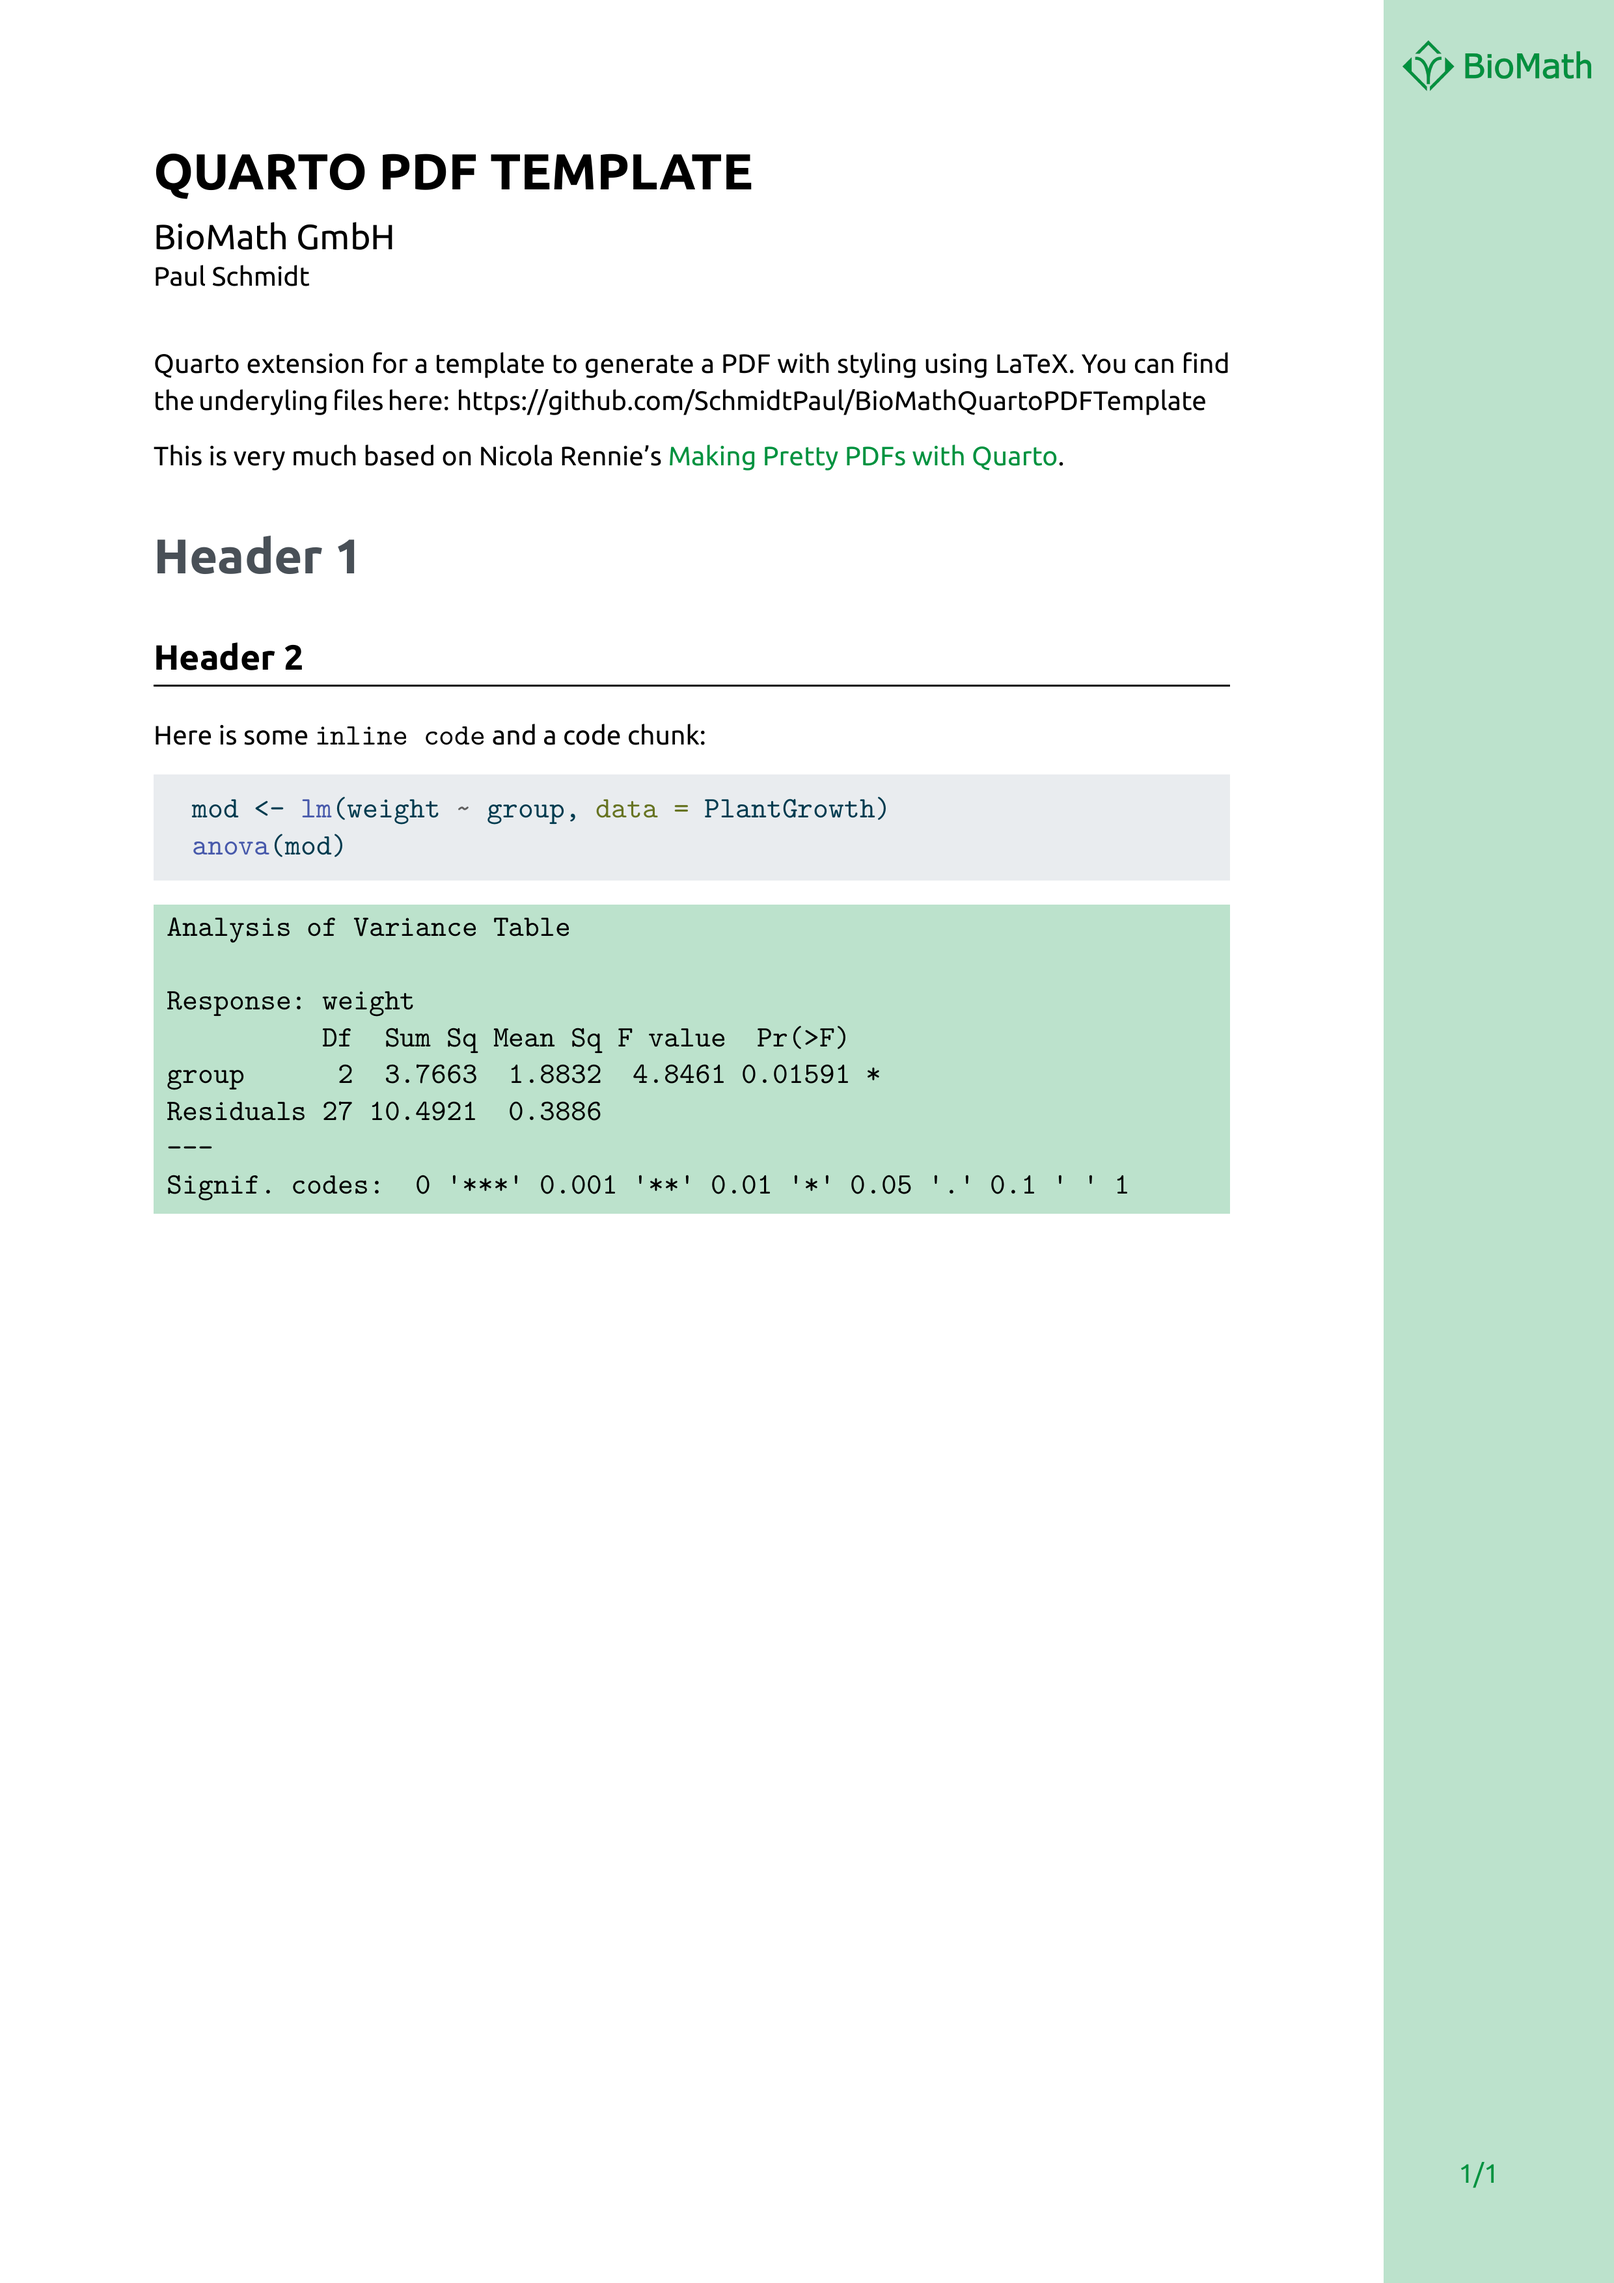
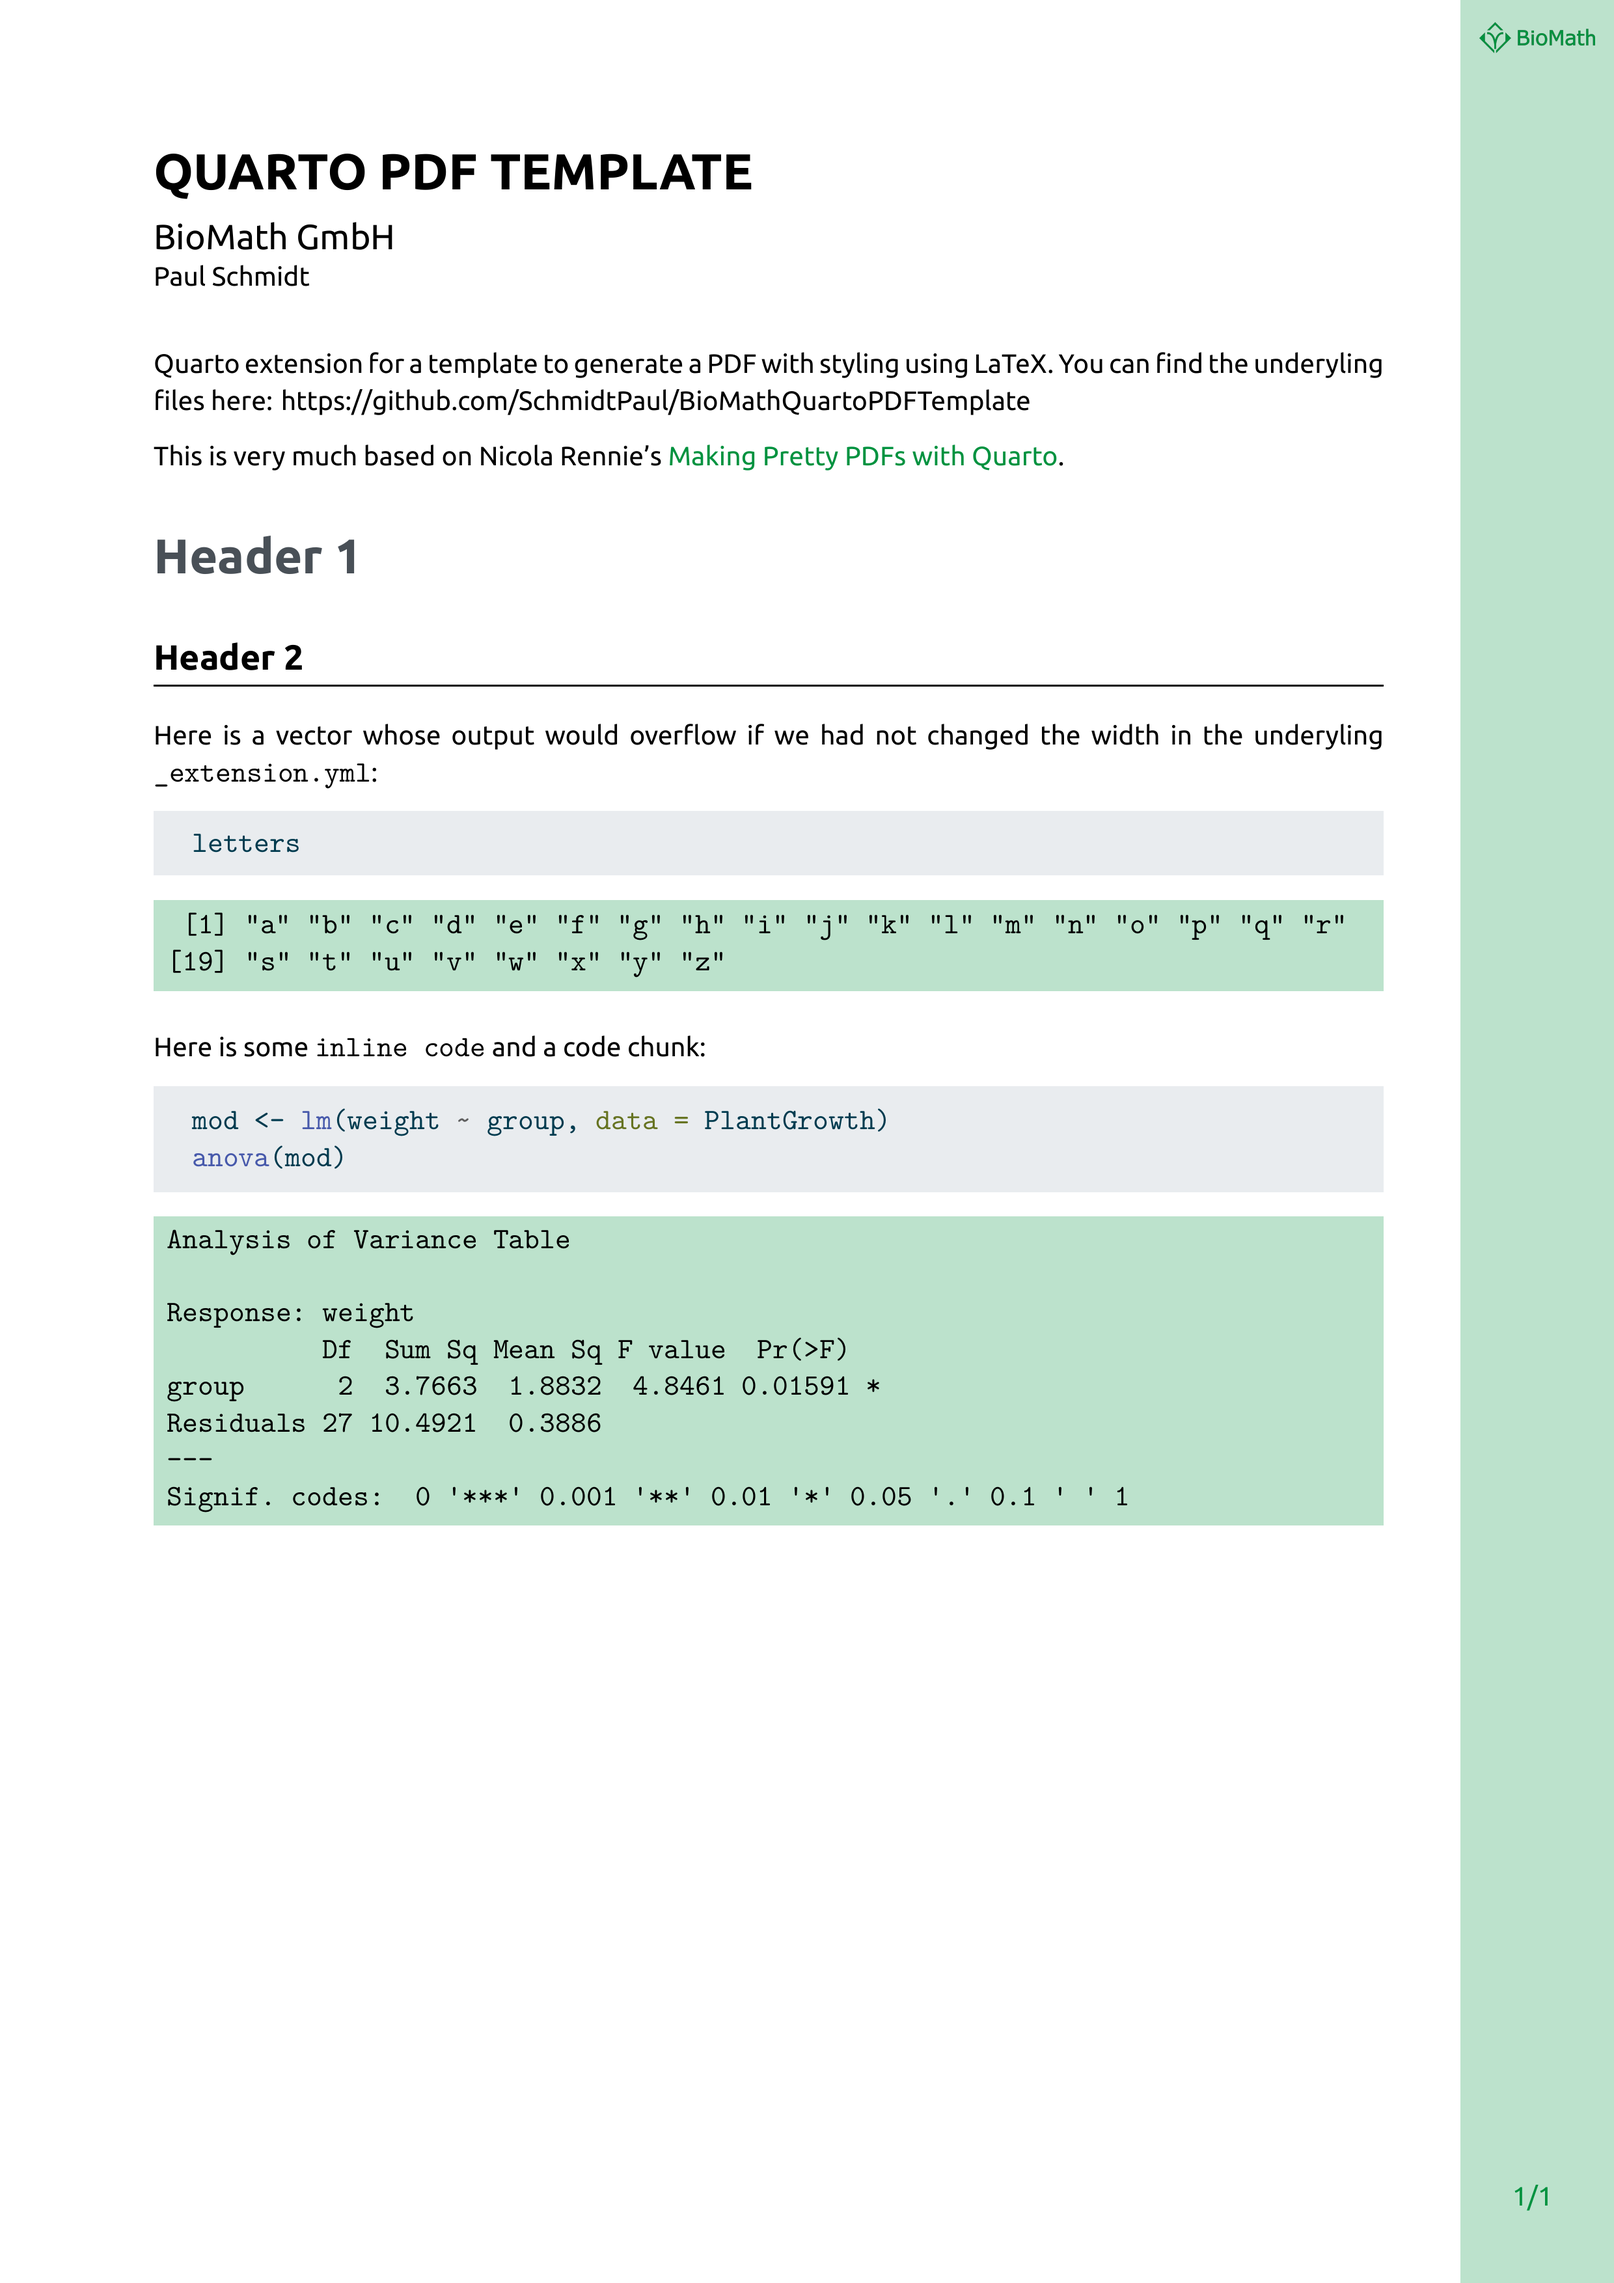
no more overflow

Changed region(s): [[0.0931, 0.0, 0.9935, 1.0], [0.1242, 0.1554, 0.7762, 0.1864], [0.6831, 0.3107, 0.7141, 0.3418]]

diff --git a/_extensions/SchmidtPaul/BioMathQuartoPDFTemplate/BioMathQuartoPDFTemplate.tex b/_extensions/SchmidtPaul/BioMathQuartoPDFTemplate/BioMathQuartoPDFTemplate.tex
@@ -11,7 +11,7 @@
 \usepackage{fvextra}
 
 %% Set page size with a wider right margin
-\geometry{a4paper, total={170mm,257mm}, left=20mm, top=20mm, bottom=20mm, right=50mm}
+\geometry{a4paper, total={170mm,257mm}, left=20mm, top=20mm, bottom=20mm, right=30mm}
 
 %% Let's define some colours
 \definecolor{lightBMgreen}{HTML}{bce2cc}
@@ -22,14 +22,14 @@
 %% Let's add the border on the right hand side 
 \AddToShipoutPicture{% 
     \AtPageLowerLeft{% 
-        \put(\LenToUnit{\dimexpr\paperwidth-3cm},0){% 
-            \color{lightBMgreen}\rule{3cm}{\LenToUnit\paperheight}%
+        \put(\LenToUnit{\dimexpr\paperwidth-2cm},0){% 
+            \color{lightBMgreen}\rule{2cm}{\LenToUnit\paperheight}%
           }%
      }%
      % logo
     \AtPageLowerLeft{% start the bar at the bottom right of the page
-        \put(\LenToUnit{\dimexpr\paperwidth-2.75cm},28.5cm){% move it to the top right
-            \color{lightBMgreen}\includegraphics[width=2.45cm]{_extensions/SchmidtPaul/BioMathQuartoPDFTemplate/BioMath_logo_name_1500x411.png}
+        \put(\LenToUnit{\dimexpr\paperwidth-1.75cm},29.0cm){% move it to the top right
+            \color{lightBMgreen}\includegraphics[width=1.5cm]{_extensions/SchmidtPaul/BioMathQuartoPDFTemplate/BioMath_logo_name_1500x411.png}
           }%
      }%
 }
@@ -38,10 +38,10 @@
 \fancypagestyle{mystyle}{
   \fancyhf{}
   \renewcommand\headrulewidth{0pt}
-  \fancyfoot[R]{\color{BMgreen}\thepage/\pageref{LastPage}}
-  \fancyfootoffset{3.5cm}
+  \fancyfoot[R]{\makebox[0pt][r]{\color{BMgreen}\thepage/\pageref{LastPage}}}
+  \fancyfootoffset{2.2cm}
 }
-\setlength{\footskip}{20pt}
+\setlength{\footskip}{1cm}
 
 %% style the chapter/section fonts
 \chapterfont{\color{dark}\fontsize{20}{16.8}\selectfont}
